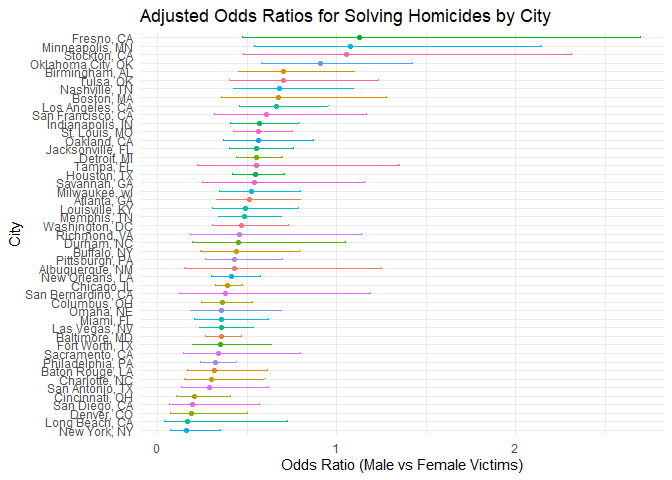
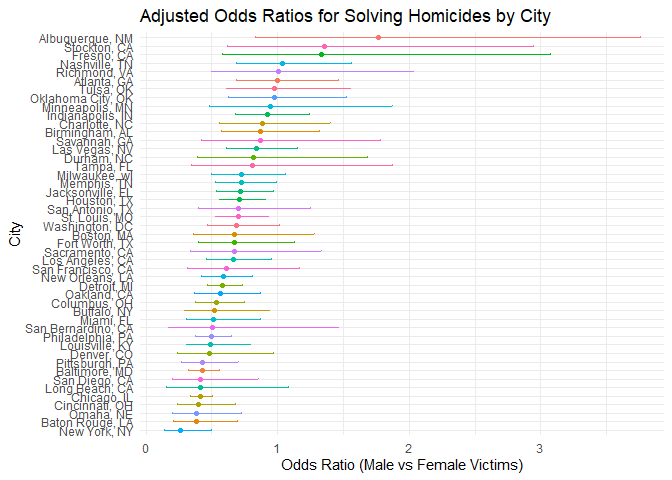
Second commit

Changed region(s): [[0.0312, 0.0625, 0.2188, 0.9062], [0.25, 0.0625, 0.8125, 0.9062], [0.2188, 0.9062, 0.25, 0.9375]]

diff --git a/p8105_hw6_jw4693.md b/p8105_hw6_jw4693.md
@@ -57,7 +57,7 @@ homi = homi|>
   ) |>
   mutate(
     victim_age = as.numeric(victim_age),
-    resolved = ifelse(grepl("Closed", disposition), 1, 0)
+    resolved = ifelse(disposition %in% c('Closed without arrest', 'Open/No arrest'), 0, 1)
   ) |>
   drop_na(victim_age)
 ```
@@ -91,7 +91,7 @@ baltimore_model |>
     ## # A tibble: 1 × 8
     ##   term           estimate std.error statistic  p.value    OR CI_lower CI_upper
     ##   <chr>             <dbl>     <dbl>     <dbl>    <dbl> <dbl>    <dbl>    <dbl>
-    ## 1 victim_sexMale    -1.04     0.143     -7.26 3.74e-13 0.355    0.268    0.469
+    ## 1 victim_sexMale   -0.854     0.138     -6.18 6.26e-10 0.426    0.325    0.558
 
 ## City-wide logistic regression
 
@@ -118,53 +118,53 @@ city_results|>
 
 | city_state         |        OR |  CI_lower |  CI_upper |
 |:-------------------|----------:|----------:|----------:|
-| Albuquerque, NM    | 0.4300644 | 0.1476315 | 1.2528178 |
-| Atlanta, GA        | 0.5120657 | 0.3280538 | 0.7992935 |
-| Baltimore, MD      | 0.3546711 | 0.2681430 | 0.4691213 |
-| Baton Rouge, LA    | 0.3187872 | 0.1661223 | 0.6117497 |
-| Birmingham, AL     | 0.7040171 | 0.4495331 | 1.1025664 |
+| Albuquerque, NM    | 1.7674995 | 0.8306581 | 3.7609388 |
+| Atlanta, GA        | 1.0000771 | 0.6836012 | 1.4630669 |
+| Baltimore, MD      | 0.4255117 | 0.3245590 | 0.5578655 |
+| Baton Rouge, LA    | 0.3814393 | 0.2092532 | 0.6953103 |
+| Birmingham, AL     | 0.8700153 | 0.5742951 | 1.3180098 |
 | Boston, MA         | 0.6739912 | 0.3560002 | 1.2760222 |
-| Buffalo, NY        | 0.4382357 | 0.2411850 | 0.7962790 |
-| Charlotte, NC      | 0.3008165 | 0.1512590 | 0.5982492 |
-| Chicago, IL        | 0.3908413 | 0.3209266 | 0.4759871 |
-| Cincinnati, OH     | 0.2055070 | 0.1035909 | 0.4076912 |
-| Columbus, OH       | 0.3605504 | 0.2458450 | 0.5287745 |
-| Denver, CO         | 0.1866018 | 0.0690457 | 0.5043076 |
-| Detroit, MI        | 0.5521572 | 0.4379957 | 0.6960743 |
-| Durham, NC         | 0.4500757 | 0.1927719 | 1.0508179 |
-| Fort Worth, TX     | 0.3514460 | 0.1935659 | 0.6380994 |
-| Fresno, CA         | 1.1288724 | 0.4719933 | 2.6999388 |
-| Houston, TX        | 0.5439159 | 0.4160059 | 0.7111546 |
-| Indianapolis, IN   | 0.5671757 | 0.4051841 | 0.7939310 |
-| Jacksonville, FL   | 0.5524443 | 0.4008148 | 0.7614357 |
-| Las Vegas, NV      | 0.3555558 | 0.2355801 | 0.5366325 |
-| Long Beach, CA     | 0.1650030 | 0.0374215 | 0.7275494 |
+| Buffalo, NY        | 0.5205704 | 0.2897705 | 0.9352008 |
+| Charlotte, NC      | 0.8838976 | 0.5569929 | 1.4026659 |
+| Chicago, IL        | 0.4100982 | 0.3359897 | 0.5005527 |
+| Cincinnati, OH     | 0.3998277 | 0.2360847 | 0.6771390 |
+| Columbus, OH       | 0.5324845 | 0.3782581 | 0.7495933 |
+| Denver, CO         | 0.4790620 | 0.2364294 | 0.9706934 |
+| Detroit, MI        | 0.5823472 | 0.4622017 | 0.7337235 |
+| Durham, NC         | 0.8123514 | 0.3920374 | 1.6832957 |
+| Fort Worth, TX     | 0.6689803 | 0.3969391 | 1.1274643 |
+| Fresno, CA         | 1.3351647 | 0.5804995 | 3.0709150 |
+| Houston, TX        | 0.7110264 | 0.5576715 | 0.9065526 |
+| Indianapolis, IN   | 0.9187284 | 0.6794344 | 1.2423006 |
+| Jacksonville, FL   | 0.7198144 | 0.5365350 | 0.9657017 |
+| Las Vegas, NV      | 0.8373078 | 0.6076753 | 1.1537154 |
+| Long Beach, CA     | 0.4102163 | 0.1555148 | 1.0820672 |
 | Los Angeles, CA    | 0.6618816 | 0.4581299 | 0.9562510 |
 | Louisville, KY     | 0.4905546 | 0.3047208 | 0.7897189 |
-| Memphis, TN        | 0.4856247 | 0.3410748 | 0.6914360 |
-| Miami, FL          | 0.3575003 | 0.2068224 | 0.6179528 |
-| Milwaukee, wI      | 0.5267948 | 0.3479251 | 0.7976221 |
-| Minneapolis, MN    | 1.0752482 | 0.5387098 | 2.1461621 |
-| Nashville, TN      | 0.6822269 | 0.4262144 | 1.0920173 |
-| New Orleans, LA    | 0.4146129 | 0.2984003 | 0.5760849 |
-| New York, NY       | 0.1613183 | 0.0744117 | 0.3497241 |
+| Memphis, TN        | 0.7232194 | 0.5291729 | 0.9884224 |
+| Miami, FL          | 0.5152379 | 0.3044831 | 0.8718716 |
+| Milwaukee, wI      | 0.7271327 | 0.4987091 | 1.0601810 |
+| Minneapolis, MN    | 0.9469587 | 0.4782860 | 1.8748838 |
+| Nashville, TN      | 1.0342379 | 0.6847143 | 1.5621816 |
+| New Orleans, LA    | 0.5849373 | 0.4217648 | 0.8112381 |
+| New York, NY       | 0.2623978 | 0.1379459 | 0.4991275 |
 | Oakland, CA        | 0.5630819 | 0.3650924 | 0.8684409 |
-| Oklahoma City, OK  | 0.9088271 | 0.5798350 | 1.4244858 |
-| Omaha, NE          | 0.3580891 | 0.1858300 | 0.6900275 |
-| Philadelphia, PA   | 0.3241547 | 0.2372514 | 0.4428898 |
+| Oklahoma City, OK  | 0.9740747 | 0.6240860 | 1.5203378 |
+| Omaha, NE          | 0.3824861 | 0.2029670 | 0.7207853 |
+| Philadelphia, PA   | 0.4962756 | 0.3776157 | 0.6522225 |
 | Pittsburgh, PA     | 0.4307528 | 0.2650983 | 0.6999213 |
-| Richmond, VA       | 0.4598351 | 0.1844044 | 1.1466550 |
-| San Antonio, TX    | 0.2877665 | 0.1332633 | 0.6213981 |
-| Sacramento, CA     | 0.3373690 | 0.1424821 | 0.7988219 |
-| Savannah, GA       | 0.5404376 | 0.2530362 | 1.1542727 |
-| San Bernardino, CA | 0.3804816 | 0.1214857 | 1.1916319 |
-| San Diego, CA      | 0.1935152 | 0.0658360 | 0.5688092 |
+| Richmond, VA       | 1.0060520 | 0.4979508 | 2.0326120 |
+| San Antonio, TX    | 0.7046200 | 0.3976578 | 1.2485342 |
+| Sacramento, CA     | 0.6688418 | 0.3347138 | 1.3365132 |
+| Savannah, GA       | 0.8669817 | 0.4222665 | 1.7800544 |
+| San Bernardino, CA | 0.5003444 | 0.1712084 | 1.4622204 |
+| San Diego, CA      | 0.4130248 | 0.1995220 | 0.8549909 |
 | San Francisco, CA  | 0.6075362 | 0.3167902 | 1.1651253 |
-| St. Louis, MO      | 0.5640965 | 0.4231476 | 0.7519950 |
-| Stockton, CA       | 1.0545534 | 0.4812175 | 2.3109776 |
-| Tampa, FL          | 0.5510486 | 0.2247915 | 1.3508276 |
-| Tulsa, OK          | 0.7025057 | 0.4007539 | 1.2314649 |
-| Washington, DC     | 0.4711307 | 0.3044400 | 0.7290900 |
+| St. Louis, MO      | 0.7031665 | 0.5303670 | 0.9322661 |
+| Stockton, CA       | 1.3517273 | 0.6211368 | 2.9416496 |
+| Tampa, FL          | 0.8077029 | 0.3477529 | 1.8759988 |
+| Tulsa, OK          | 0.9757694 | 0.6135882 | 1.5517343 |
+| Washington, DC     | 0.6901713 | 0.4683853 | 1.0169757 |
 
 ## Plot the results
 
@@ -187,13 +187,12 @@ ggplot(city_results, aes(x = reorder(city_state, OR), y = OR, color = city_state
 The plot highlights substantial variability in how gender affects
 homicide resolution likelihood across cities. An OR \> 1 indicates that
 homicides involving male victims are more likely to be resolved compared
-to those involving female victims. Cities with wide CIs, such as Long
-Beach, NY, or Denver, CO, suggest greater uncertainty in the estimates,
-likely due to smaller sample sizes or variability in the data. If a CI
-does not cross 1, the effect is considered statistically significant.
-Cities with CIs crossing 1 (e.g., New York, NY, or Baltimore, MD)
-indicate no significant difference in resolution likelihood based on
-victim gender.
+to those involving female victims. Cities with wide CIs, such as
+Albuquerque, NM, or Stockton, CA, suggest greater uncertainty in the
+estimates, likely due to smaller sample sizes or variability in the
+data. If a CI does not cross 1, the effect is considered statistically
+significant. Cities with CIs crossing 1 (e.g., Atlanta, GA) indicate no
+significant difference in resolution likelihood based on victim gender.
 
 # problem 3
 
@@ -384,7 +383,7 @@ model_interactions|>
 ``` r
 set.seed(12)
 prediction_error <- function(model, data) {
-  mean((data$bwt - predict(model, data))^2)
+  (mean((data$bwt - predict(model, data))^2))^0.5
 }
 cv_results <- crossv_mc(birth_data, 100) |>
   mutate(
@@ -408,7 +407,22 @@ cv_summary|>
 
 | Proposed_Model | Length_Age_Model | Interactions_Model |
 |---------------:|-----------------:|-------------------:|
-|       203789.3 |         111493.8 |           84176.85 |
+|       451.3393 |         333.5207 |           289.9489 |
+
+``` r
+cv_results|>
+  pivot_longer(
+    cols = proposed_error:interactions_error,
+    names_to = 'models',
+    values_to = 'squared_root_error'
+  )|>
+  ggplot(aes(x = models, y = squared_root_error, colour = models))+
+  geom_boxplot()+
+  theme_minimal()+
+  labs(title = 'Bow plot of models squared root errors')
+```
+
+![](p8105_hw6_jw4693_files/figure-gfm/unnamed-chunk-10-1.png)<!-- -->
 
 As a result, the model using head circumference, length, sex, and all
 interactions (including the three-way interaction) between these
